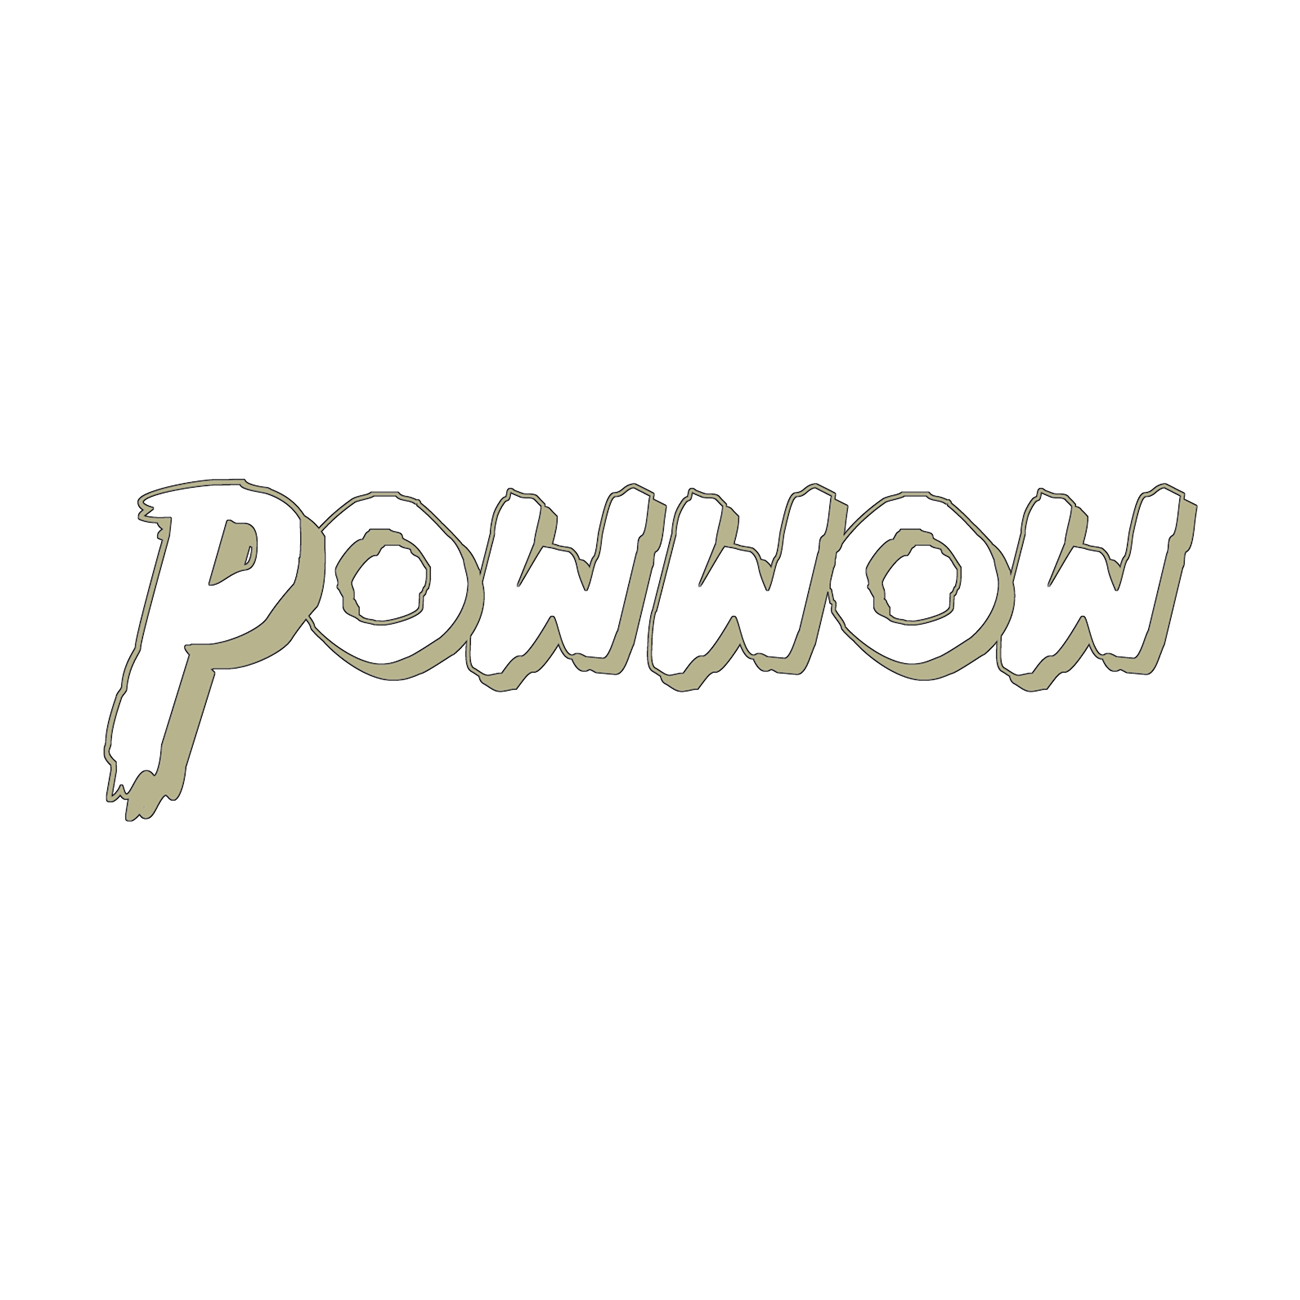
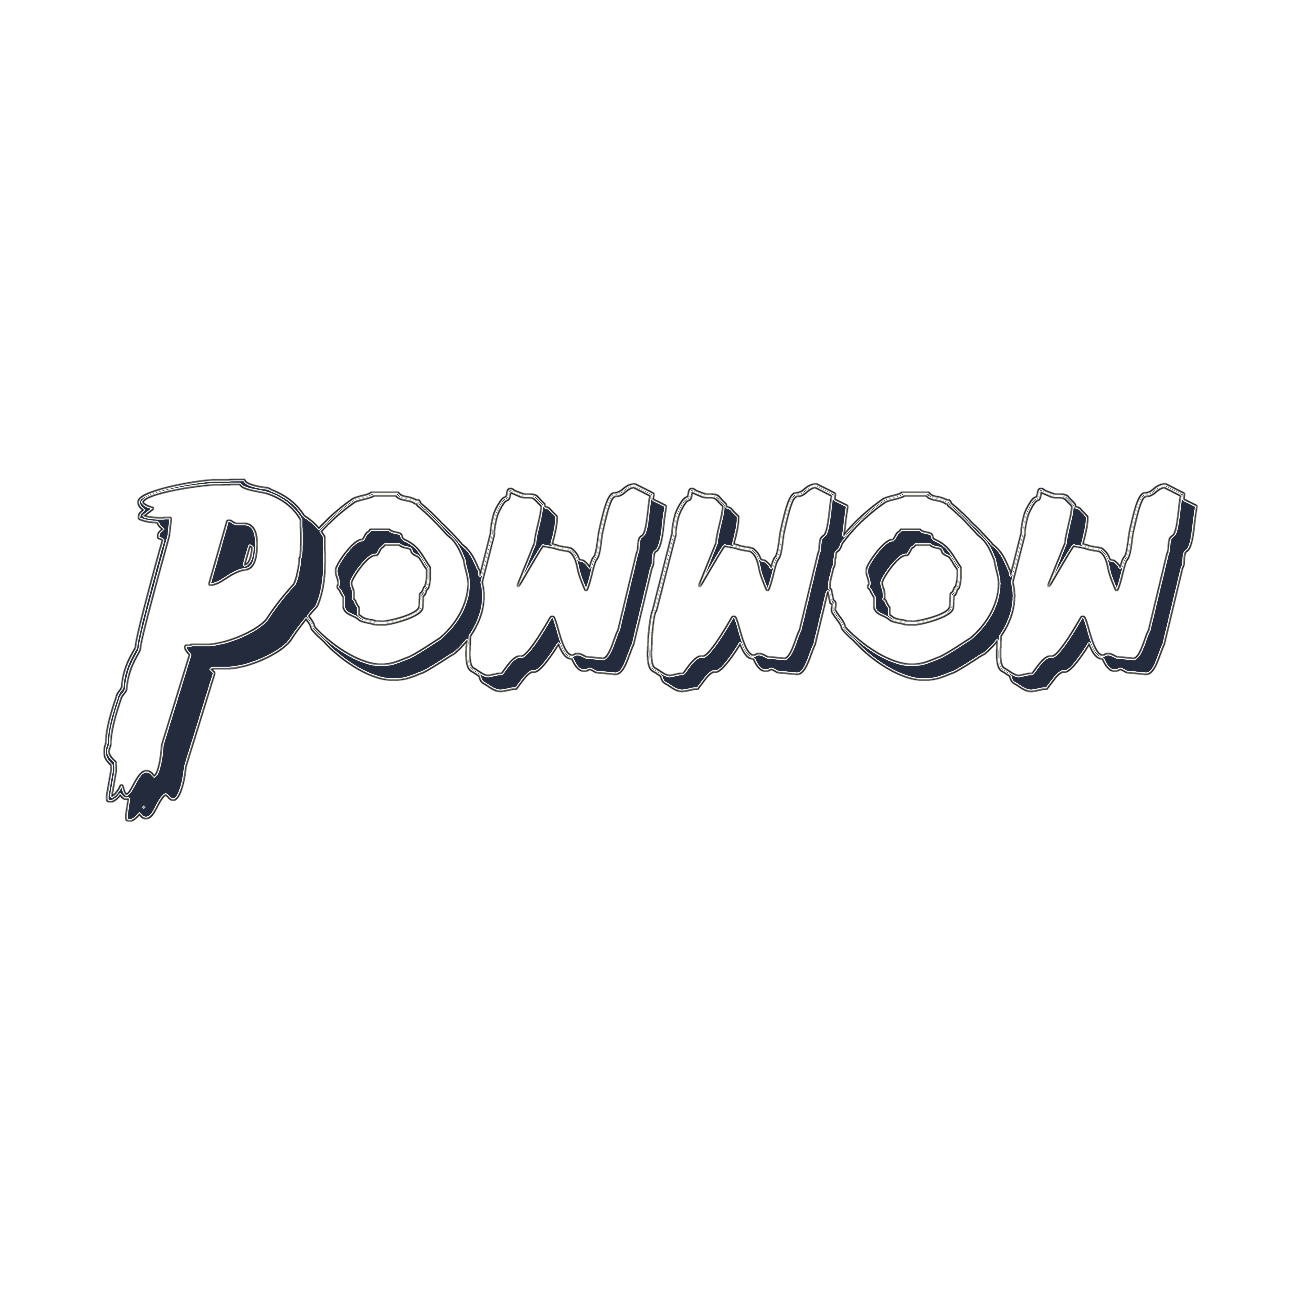
2018 updates to site.

diff --git a/index.html b/index.html
@@ -36,7 +36,7 @@
   <button class="navbar-toggler navbar-toggler-right" type="button" data-toggle="collapse" data-target="#navbarSupportedContent" aria-controls="navbarSupportedContent" aria-expanded="false" aria-label="Toggle navigation">
     <span><i class="fa fa-angle-double-down" aria-hidden="true"></i></span>
   </button>
-  <a class="navbar-brand" href="#"><img class="logo" src="Images/Assets/Powwow Logo.jpg" alt="Powwow Logo"/></a>
+  <a class="navbar-brand" href="#"><img class="logo" src="Images/Assets/Powwow Sticker 2018.jpg" alt="Powwow Logo"/></a>
 
   <div class="collapse navbar-collapse justify-content-end" id="navbarSupportedContent">
     <ul class="navbar-nav">
@@ -85,62 +85,14 @@
                     Lineup
 ************************************************************-->
 
-<div class="container" id="lineup">
-          <!--Lineup Section Head-->
-  <div class="row lineup-head">
-    <h3>Celebrating 5 years at the Pepper Upper Club</h3>
-    <h2>Sellursburg, IN</h2>
-    <h3>August 5th 2017</h3>
-    <h3>General Admission $15</h3>
-  </div>
 
-  <div class="row">
-    <hr />
-  </div>
-
-          <!--Lineup Section Artist-->
-  <div class="row lineup lineup1">
-      <a href="https://animalcity.bandcamp.com/" target="_blank">Animal City</a>
-      <a href="https://thatmaximon.bandcamp.com/" target="_blank">Maximon</a>
-  </div>
-  <div class="row lineup lineup2">
-    <a href="https://typhoidbeach.bandcamp.com/" target="_blank">T yphoid Beach</a>
-    <a href="https://thethumps.bandcamp.com/" target="_blank">The Thumps</a>
-  </div>
-  <div class="row lineup lineup3">
-    <a href="https://riskwatch.bandcamp.com/" target="_blank">Risk Watch</a>
-    <a href="https://bendigofletcher.bandcamp.com/" target="_blank">Bendigo Fletcher</a>
-  </div>
-  <div class="row lineup lineup4">
-    <a href="https://soundcloud.com/broadarrow" target="_blank">Broad Arrow</a>
-  </div>
-  <div class="row lineup">
-    <h3 class="late">Late Night Performances</h3>
-  </div>
-  <div class="row lineup lineup3">
-    <a href="https://www.youtube.com/watch?v=x8E1ta5C0s4" target="_blank">Jake Justice</a>
-    <a href="https://twitter.com/indycut" target="_blank">Indy Cut Ent</a>
-  </div>
-  <div class="row lineup lineup4">
-    <a href="http://www.soundclick.com/bands/default.cfm?bandID=459096" target="_blank">2-8 Squad</a>
-  </div>
-
-    <hr />
-
-
-
-                        <!--Lineup General Information-->
-  <div class="row lineup">
-    <p>General admission includes access to all musical performances, as well as your very own campsite. Bands will begin at 4pm and go into the late hours of the night. Thank you for your continued support.</p>
-  </div>
-</div>
 
 <div class="container schedule" id="schedule">
   <div class="row">
     <div class="col">
-      <h1>2017 SCHEDULE</h1>
+      <h1>2018 LINEUP</h1>
       <section class="schedule-img">
-        <img id="schedule-img" src="Images/Assets/Powwow Schedule 2017.jpg" alt="Schedule">
+        <img id="schedule-img" src="Images/Assets/Powwow Schedule 2018.jpg" alt="Schedule">
       </section>
     </div>
   </div>
@@ -208,7 +160,7 @@
 
 <footer class="footer">
   <div class="container">
-    <span class="">&copy; Powwow Music Bash 2017</span>
+    <span class="">&copy; Powwow Music Bash 2018</span>
   </div>
 </footer>
 

diff --git a/CSS/main.css b/CSS/main.css
@@ -24,7 +24,7 @@ body {
   margin-bottom   : 0;
   background      : url("../Images/Assets/Pow-banner.png") no-repeat center center fixed,
                     url("../Images/Assets/Star-Field.png") no-repeat center center fixed,
-                    linear-gradient( to bottom, rgba(135, 40, 18, 1), rgba(173, 125, 39, 1));
+                    linear-gradient( to bottom, rgba(230, 199, 127, 1), rgba(248, 180, 66, 1));
   background-size : cover;
   align-items     : center;
   flex-direction  : column;
@@ -33,9 +33,8 @@ body {
 
 
 body {
-  color         : #b7b38d;
-  background    : url("../Images/Assets/Star-Field.png") no-repeat center fixed, linear-gradient( to bottom, rgba(135, 40, 18, .5), rgba(173, 125, 39, .5)) no-repeat center fixed,
-  linear-gradient( to bottom, rgba(51, 18, 135, 1), rgba(121, 39, 173, 1)) no-repeat center fixed;
+  color         : #242b3d;
+  background    : linear-gradient( to bottom, rgba(230, 199, 127, 1), rgba(248, 180, 66, 1)) no-repeat center fixed;
   font-family   : 'Bauhaus-93', sans-serif;
   font-weight   :  300;
   background-size: cover;
@@ -144,7 +143,7 @@ button:focus {
 
 
 #about, #fa-chev {
-color: rgb(121, 39, 173);
+color: rgb(36, 43, 61);
       opacity: 0;
       -webkit-transition: opacity 3s ease-in;
          -moz-transition: opacity 3s ease-in;
@@ -154,7 +153,7 @@ color: rgb(121, 39, 173);
   }
 
 #about.load, #fa-chev.load {
-    opacity: .6;
+    opacity: 1;
 }
 /*****************************************
         Content Styles-Lineup
@@ -205,7 +204,7 @@ color: rgb(121, 39, 173);
   padding-right: 1rem;
   padding-left: 1rem;
   font-family: 'Friday13SH', sans-serif;
-  color: #b7b38d;
+  color: #242b3d;
 }
 
 .lineup a:focus {
@@ -219,8 +218,8 @@ color: rgb(121, 39, 173);
 }
 
 #lineup {
-  background: url("../Images/Assets/Powwow Flier City Woods.png") no-repeat center 80% fixed, url("../Images/Assets/Star-Field.png") no-repeat center center fixed,
-  linear-gradient( to bottom, rgba(135, 40, 18, 1), rgba(173, 125, 39, 1));
+  background: url("../Images/Assets/Powwow Base Black 2018.png") no-repeat center 80% fixed, url("../Images/Assets/Star-Field.png") no-repeat center center fixed,
+  linear-gradient( to bottom, rgba(230, 199, 127, 1), rgba(248, 180, 66, 1));
 }
 
 /*****************************************
